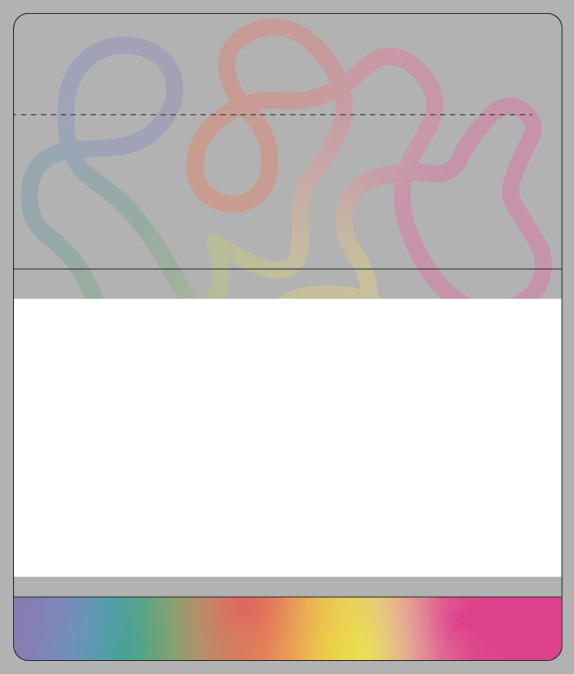
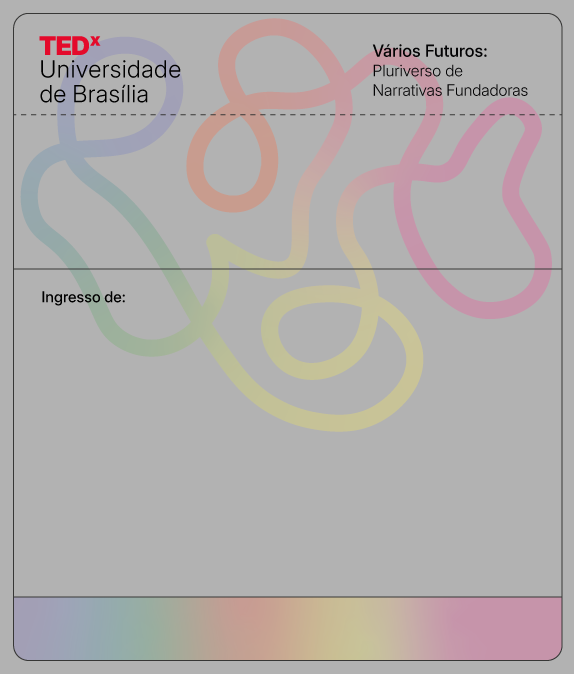
fix: alinhamento do topo no ingresso, correcao do download e ajuste de fonte

diff --git a/app/ingressos/page.tsx b/app/ingressos/page.tsx
@@ -94,12 +94,11 @@ export default function IngressosPage() {
   async function downloadTicketPNG() {
     if (!ticketRef.current) return
 
-    // Rolagem para o topo garante que o canvas capture tudo sem cortes
     window.scrollTo(0, 0)
     
     const canvas = await html2canvas(ticketRef.current, {
-      backgroundColor: '#ffffff', // Fundo branco forçado para evitar bordas pretas
-      scale: 3, // Alta resolução
+      backgroundColor: '#ffffff',
+      scale: 3, 
       useCORS: true,
       logging: false,
     })
@@ -247,7 +246,7 @@ export default function IngressosPage() {
               <h2>Nos vemos no TEDx!</h2>
               <p className="success-copy">Seu ingresso gratuito está reservado. Apresente este ticket no credenciamento.</p>
               
-              {/* MODELO DO INGRESSO RENDERIZADO EM ALTA QUALIDADE VETORIAL */}
+              {/* MODELO DO INGRESSO RENDERIZADO */}
               <div
                 ref={ticketRef}
                 style={{
@@ -263,117 +262,73 @@ export default function IngressosPage() {
                   overflow: 'hidden', 
                 }}
               >
-                {/* Template Imagem de Fundo */}
+                {/* Template Imagem de Fundo (Com logo, título e "Ingresso de:" já fixos) */}
                 <img
                   src="/ingresso-template.png"
                   alt="Template Ingresso TEDx"
                   style={{ width: '100%', height: 'auto', display: 'block' }}
                 />
 
-                {/* LOGO SUPERIOR ESQUERDA (Subimos a porcentagem para travar no PDF) */}
-                <div
-                  style={{
-                    position: 'absolute',
-                    top: '3.5%', /* Voltou para 3.5% para compensar a descida no canvas */
-                    left: '6%',
-                    textAlign: 'left',
-                    lineHeight: '1.1',
-                    margin: 0,
-                    padding: 0,
-                  }}
-                >
-                  <div style={{ fontSize: '1.4rem', fontWeight: '900', color: '#eb0028', position: 'relative', display: 'inline-block' }}>
-                    TED
-                    <span 
-                      style={{ 
-                        fontStyle: 'italic', 
-                        fontSize: '0.9rem', 
-                        position: 'absolute', 
-                        top: '-0.1rem', 
-                        left: '100%',   
-                        marginLeft: '1px' 
-                      }}
-                    >
-                      x
-                    </span>
+                {/* INFORMAÇÕES DO EVENTO (DATA, HORÁRIO E LOCAL) - ALINHADAS PELO TOPO */}
+                <div style={{
+                  position: 'absolute',
+                  top: '21%', /* Ajuste se precisar subir/descer as 3 juntas */
+                  left: '0',
+                  width: '100%',
+                  display: 'flex',
+                  alignItems: 'flex-start', /* Trava o alinhamento de todas pelo topo */
+                  justifyContent: 'space-between', 
+                  padding: '0 8%', /* Dá a margem exata nas laterais */
+                  color: '#111',
+                  boxSizing: 'border-box'
+                }}>
+                  {/* COLUNA 1: DATA */}
+                  <div style={{ textAlign: 'center', width: '30%' }}>
+                    <div style={{ fontSize: '0.65rem', fontWeight: 'bold' }}>Data:</div>
+                    <div style={{ fontSize: '2.1rem', fontWeight: '900', lineHeight: '1', margin: '2px 0' }}>19</div>
+                    <div style={{ fontSize: '0.6rem', fontWeight: 'bold', lineHeight: '1.1' }}>Novembro<br />2026</div>
                   </div>
-                  <div style={{ fontSize: '0.75rem', fontWeight: '500', color: '#111', marginTop: '2px' }}>
-                    Universidade<br />de Brasília
+
+                  {/* COLUNA 2: HORÁRIO */}
+                  <div style={{ textAlign: 'center', width: '30%' }}>
+                    <div style={{ fontSize: '0.65rem', fontWeight: 'bold' }}>Horário:</div>
+                    <div style={{ fontSize: '2.1rem', fontWeight: '900', lineHeight: '1', margin: '2px 0' }}>14h</div>
+                    <div style={{ fontSize: '0.6rem', fontWeight: 'bold' }}>Credenciamento</div>
+                  </div>
+
+                  {/* COLUNA 3: LOCAL */}
+                  <div style={{ textAlign: 'center', width: '30%' }}>
+                    <div style={{ fontSize: '0.65rem', fontWeight: 'bold' }}>Local:</div>
+                    <div style={{ fontSize: '0.58rem', fontWeight: 'bold', lineHeight: '1.25', marginTop: '3px' }}>Centro de<br />Excelência<br />em Turismo</div>
+                    <div style={{ fontSize: '0.58rem', marginTop: '3px', fontWeight: '500' }}>CET - UnB</div>
                   </div>
                 </div>
-
-                {/* TEMA SUPERIOR DIREITO */}
+                {/* NOME DO PARTICIPANTE DINÂMICO */}
                 <div
                   style={{
                     position: 'absolute',
-                    top: '3.5%',  /* Mesmo valor exato do logo do TEDx */
-                    right: '6%',  
-                    textAlign: 'left', 
-                    fontSize: '0.62rem',
-                    lineHeight: '1.3',
-                    color: '#111',
-                    whiteSpace: 'nowrap',
-                    margin: 0,
-                    padding: 0,
-                  }}
-                >
-                  <div style={{ fontWeight: '700' }}>Vários Futuros:</div>
-                  <div style={{ fontWeight: '400' }}>Pluriverso de</div>
-                  <div style={{ fontWeight: '400' }}>Narrativas Fundadoras</div>
-                </div>
-
-                {/* COLUNA 1: DATA */}
-                <div style={{ position: 'absolute', top: '21%', left: '18%', transform: 'translateX(-50%)', textAlign: 'center', color: '#111' }}>
-                  <div style={{ fontSize: '0.65rem', fontWeight: 'bold' }}>Data:</div>
-                  <div style={{ fontSize: '2.1rem', fontWeight: '900', lineHeight: '1', margin: '2px 0' }}>19</div>
-                  <div style={{ fontSize: '0.6rem', fontWeight: 'bold', lineHeight: '1.1' }}>Novembro<br />2026</div>
-                </div>
-
-                {/* COLUNA 2: HORÁRIO */}
-                <div style={{ position: 'absolute', top: '21%', left: '50%', transform: 'translateX(-50%)', textAlign: 'center', color: '#111' }}>
-                  <div style={{ fontSize: '0.65rem', fontWeight: 'bold' }}>Horário:</div>
-                  <div style={{ fontSize: '2.1rem', fontWeight: '900', lineHeight: '1', margin: '2px 0' }}>14h</div>
-                  <div style={{ fontSize: '0.6rem', fontWeight: 'bold' }}>Credenciamento</div>
-                </div>
-
-                {/* COLUNA 3: LOCAL */}
-                <div style={{ position: 'absolute', top: '21%', left: '82%', transform: 'translateX(-50%)', textAlign: 'center', color: '#111' }}>
-                  <div style={{ fontSize: '0.65rem', fontWeight: 'bold' }}>Local:</div>
-                  <div style={{ fontSize: '0.58rem', fontWeight: 'bold', lineHeight: '1.25', marginTop: '3px' }}>Centro de<br />Excelência<br />em Turismo</div>
-                  <div style={{ fontSize: '0.58rem', marginTop: '3px', fontWeight: '500' }}>CET - UnB</div>
-                </div>
-
-                {/* FAIXA: "Ingresso de: NOME DO PARTICIPANTE" */}
-                <div
-                  style={{
-                    position: 'absolute',
-                    top: '39.5%', /* Subimos para 39.5% para não cair fora da faixa no PDF */
-                    left: '6%',   
-                    width: '88%',
+                    top: '41.5%', /* Subimos o valor para compensar a queda na hora de baixar */
+                    left: '26%',  
+                    width: '68%',
                     textAlign: 'left',
                     color: '#111',
                     whiteSpace: 'nowrap',
-                    
-                    /* CORREÇÕES PARA O CANVAS NÃO EMPURRAR O TEXTO: */
-                    lineHeight: '1.2',  /* Valor numérico fixo trava o pulo da fonte */
+                    lineHeight: '1', /* Travado em 1 para o html2canvas não adicionar margem fantasma */
                     overflow: 'visible',
                     margin: 0,
-                    padding: 0, /* Removemos os paddings que causavam a descida fantasma */
+                    padding: 0,
                   }}
                 >
-                  <span style={{ fontSize: '0.75rem', fontWeight: '700', marginRight: '6px' }}>
-                    Ingresso de:
-                  </span>
                   <span style={{ fontSize: '0.85rem', fontWeight: '900', textTransform: 'uppercase' }}>
                     {attendeeName}
                   </span>
                 </div>
 
-                {/* QR CODE DINÂMICO (Minimalista com Borda para PDF) */}
+                {/* QR CODE DINÂMICO */}
                 <div
                   style={{
                     position: 'absolute',
-                    top: '64.5%',
+                    top: '68%', 
                     left: '50%',
                     transform: 'translate(-50%, -50%)',
                     backgroundColor: '#fff',
@@ -430,18 +385,18 @@ export default function IngressosPage() {
             <span className="font-normal text-xs uppercase tracking-widest text-gray-400">Realização:</span>
             
             <div className="flex flex-col items-start gap-2.5">
-              {/* Logo do Instituto Latinoamerica (maior) */}
+              {/* Logo do Instituto Latinoamerica */}
               <img 
                 src="/logo-8.png" 
                 alt="Instituto Latinoamerica" 
-                className="h-15 md:h-25 w-auto object-contain" 
+                className="h-10 md:h-12 w-auto object-contain" 
               />
               
-              {/* Logo da UnB (ajustada para acompanhar harmonicamente) */}
+              {/* Logo da UnB */}
               <img 
                 src="/unb-8.png" 
                 alt="Universidade de Brasília" 
-                className="h-7 md:h-8 w-auto object-contain" 
+                className="h-6 md:h-7 w-auto object-contain" 
               />
             </div>
           </div>

diff --git a/app/page.tsx b/app/page.tsx
@@ -93,8 +93,8 @@ export default function Home() {
       <section id="palestrantes" className="relative w-full bg-[#b2b2b2] pt-8 pb-12 flex-grow overflow-hidden border-b border-black">
         <div className="w-full relative min-h-[35vh] md:min-h-[55vh] flex flex-col justify-center">
           
-          {/* Título fixado na esquerda */}
-          <h2 className="text-3xl md:text-4xl lg:text-5xl font-black tracking-tight text-black relative pl-[5%] mb-2 md:mb-0 md:absolute md:top-4 md:left-[5%] md:pl-0 z-20">
+          {/* Título fixado na esquerda com tamanho reduzido */}
+          <h2 className="text-[15px] md:text-[30px] font-black tracking-tight text-black relative pl-[5%] mb-2 md:mb-0 md:absolute md:top-4 md:left-[5%] md:pl-0 z-20">
             Palestrantes:
           </h2>
 
